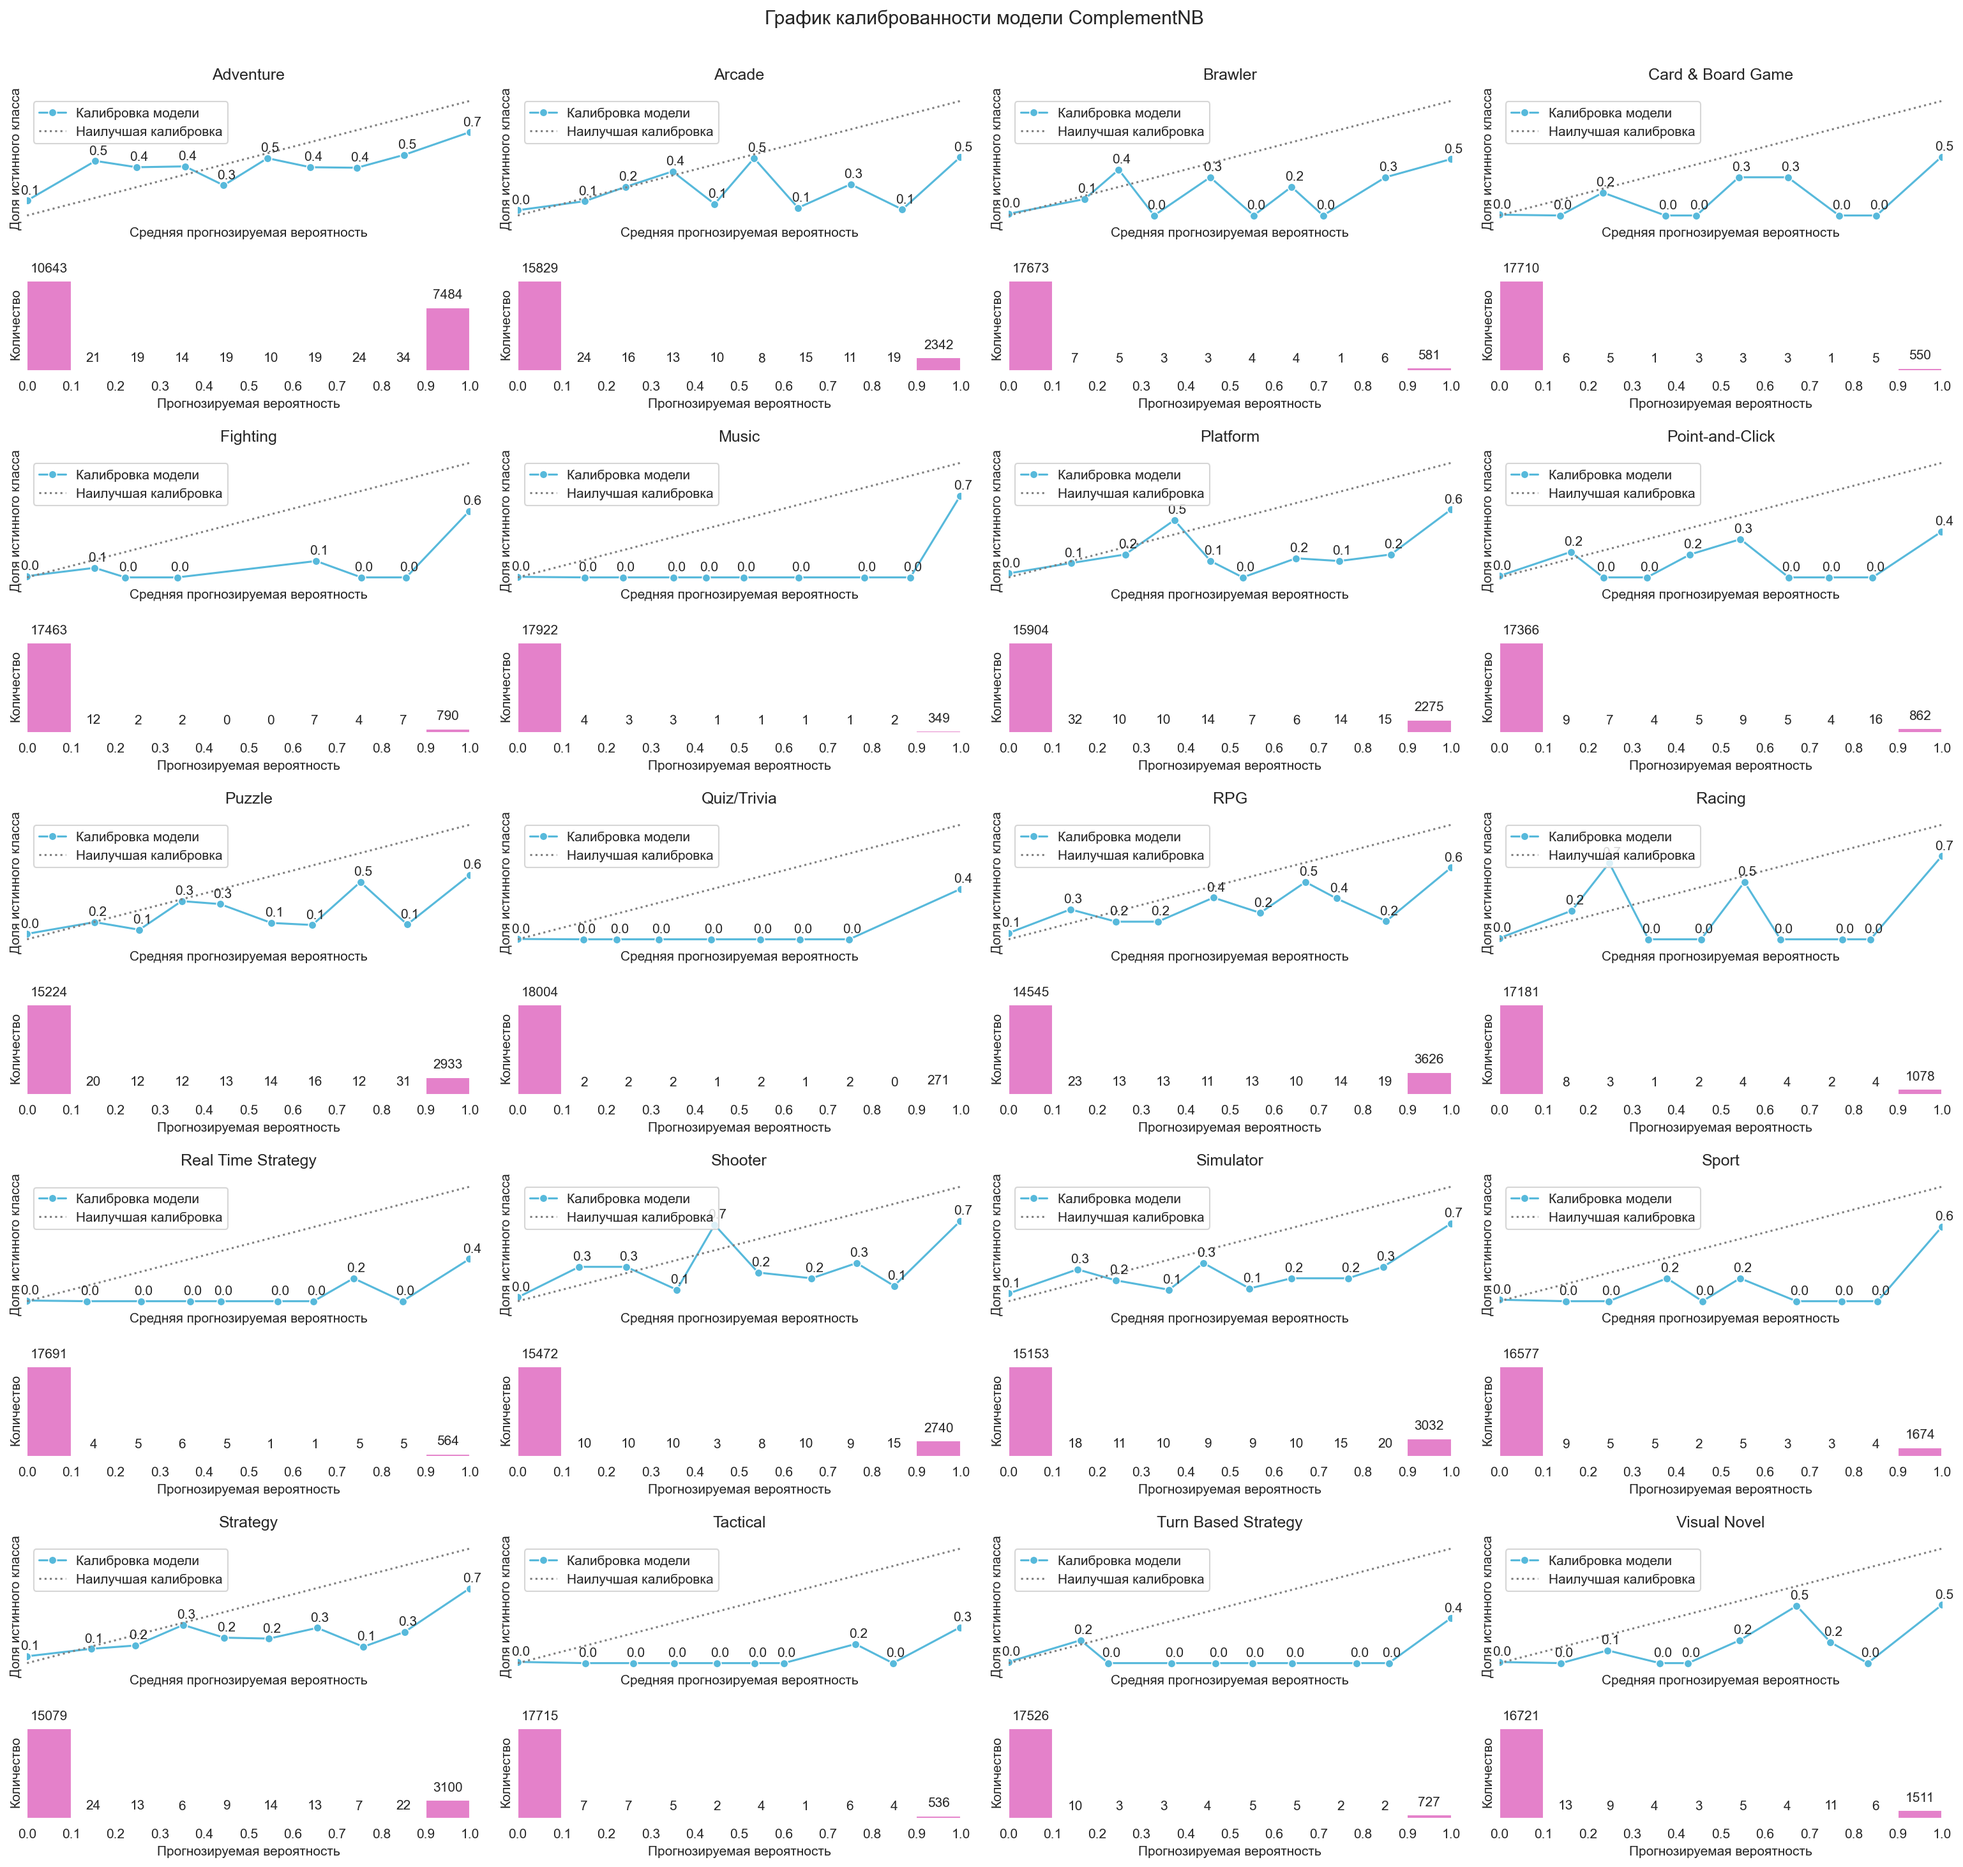
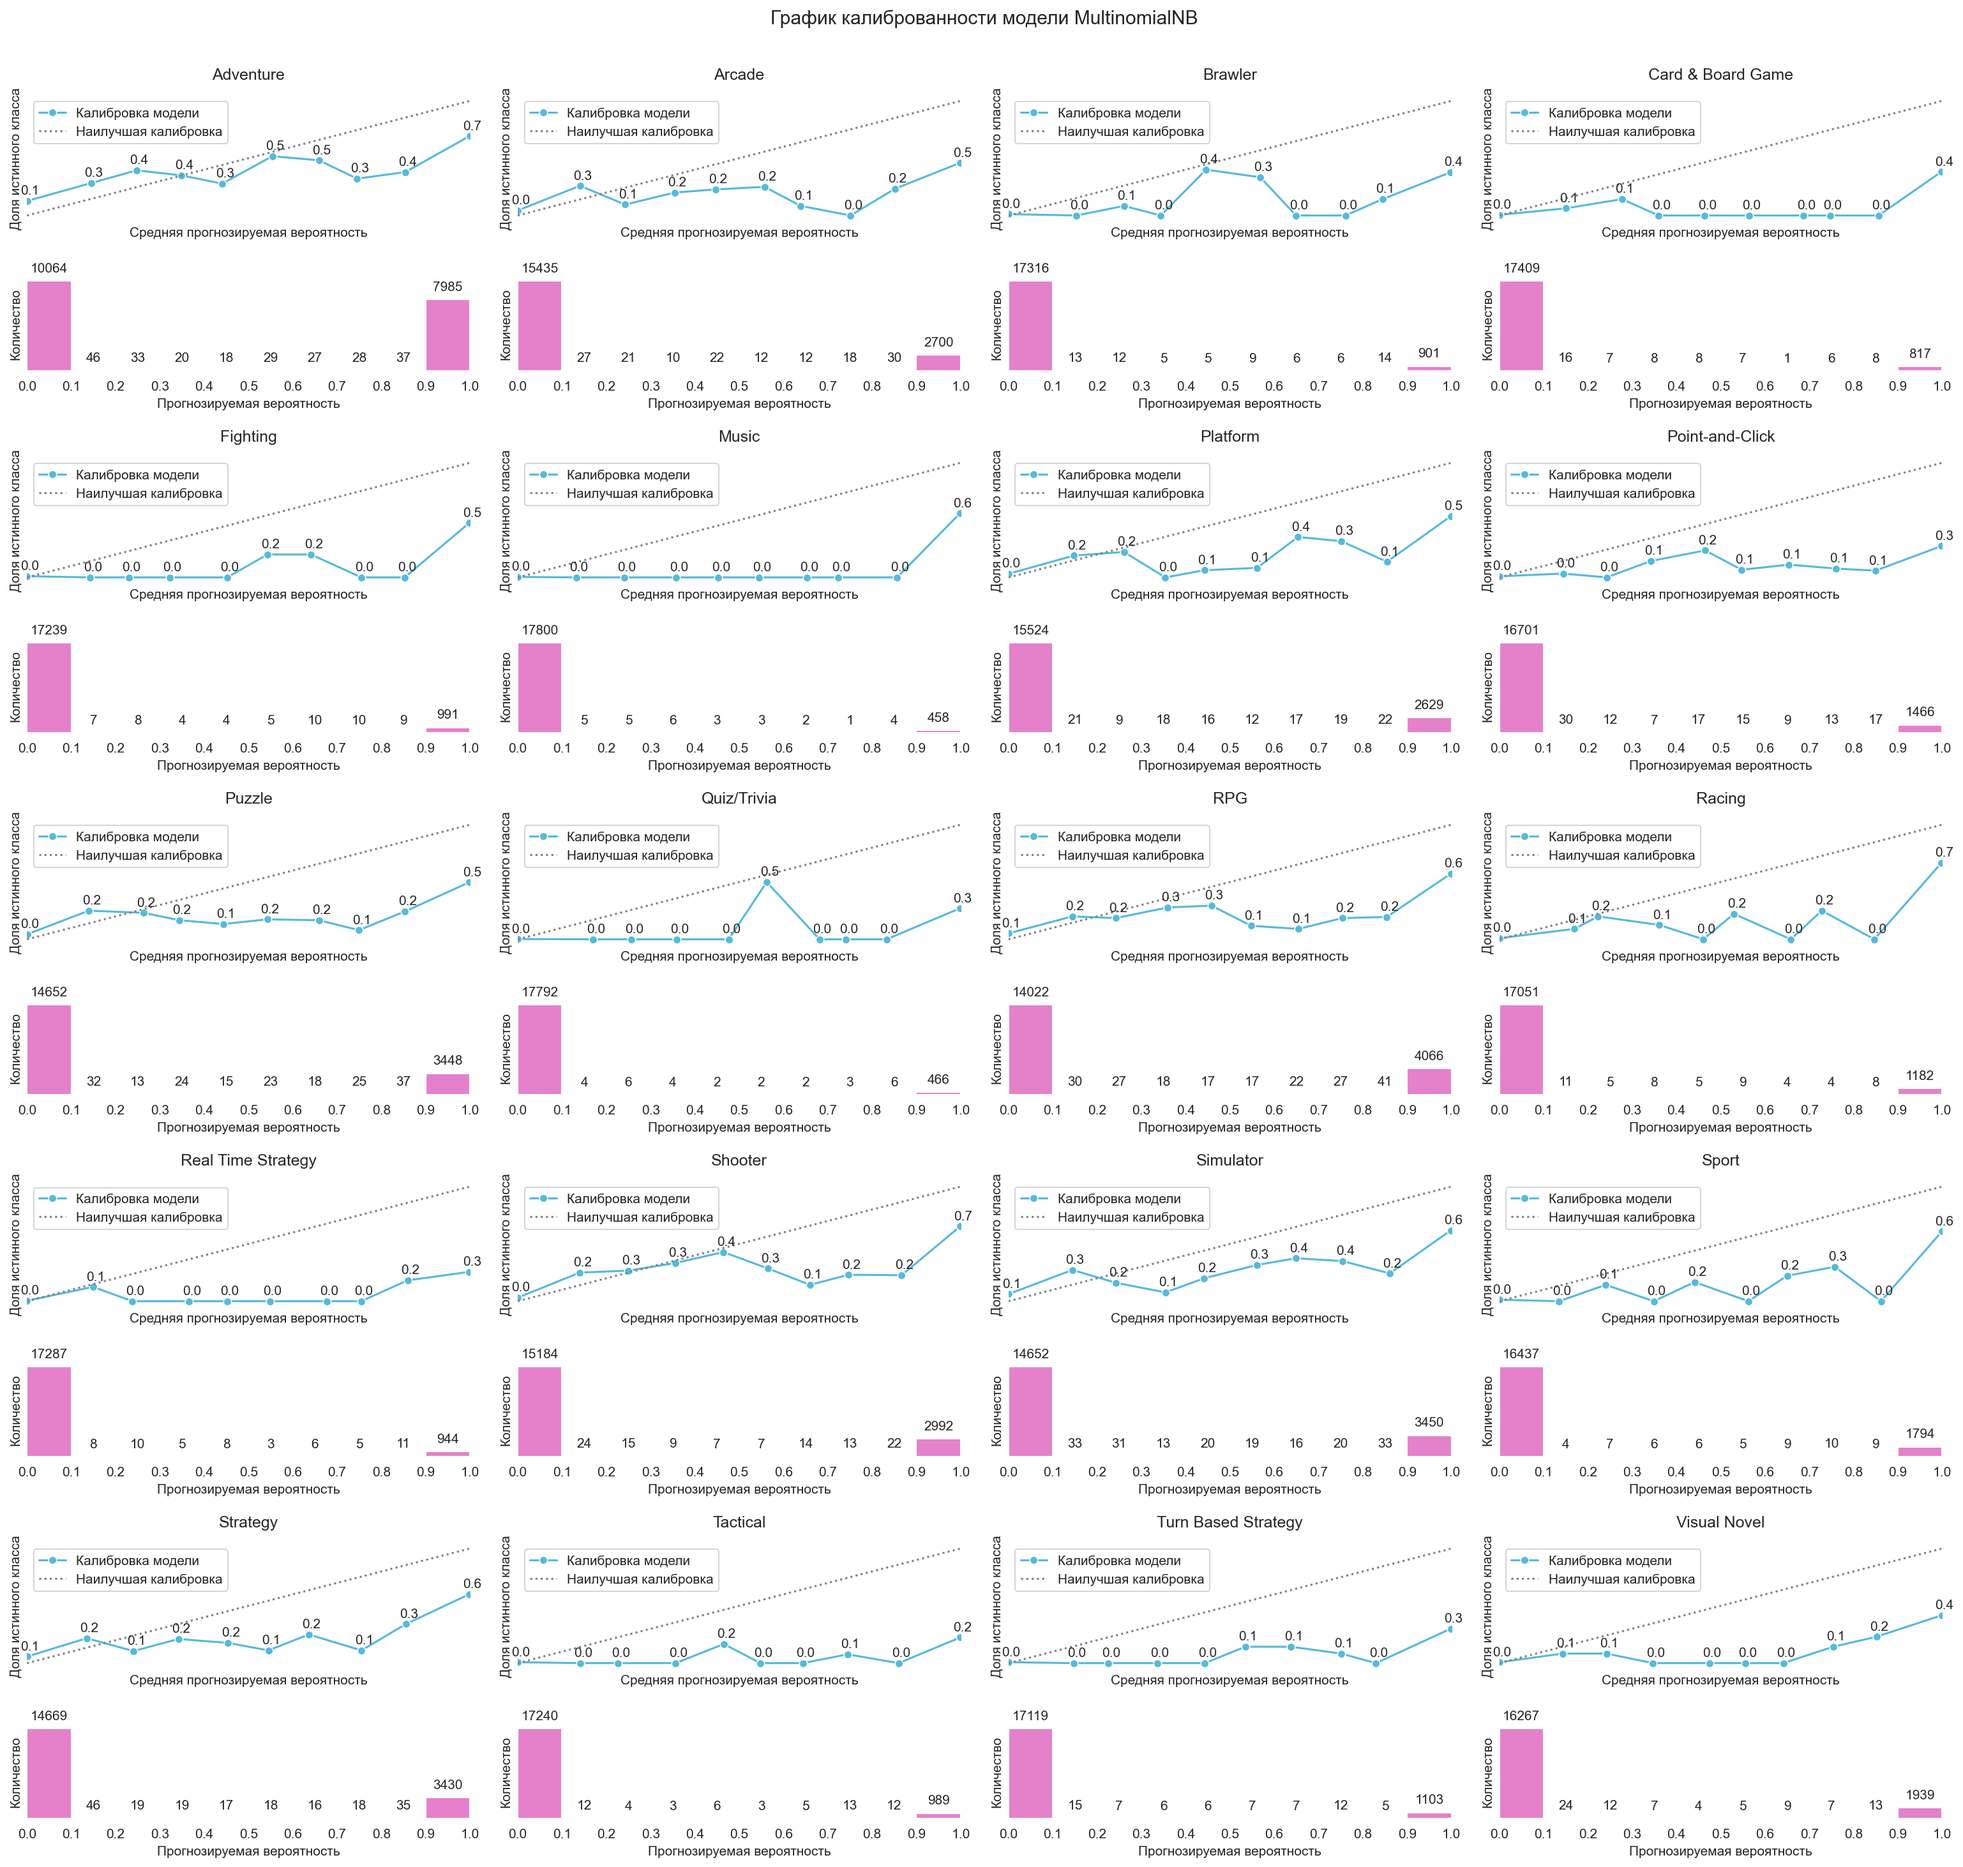
Update model hyperparameters
Retrain models on new hyperparameters. Update results report

diff --git a/src/ml/models/complement.py b/src/ml/models/complement.py
@@ -39,9 +39,9 @@ pipeline = Pipeline(
 params = {
     'standardizer__vectorizer__norm': ['categorical', [None, 'l1', 'l2']],
     'standardizer__vectorizer__sublinear_tf': ['categorical', [True, False]],
-    'standardizer__vectorizer__max_features': ['int', {'low': 200_000,
-                                                       'high': 1_500_000,
-                                                       'step': 100_000}],
+    'standardizer__vectorizer__max_features': ['int', {'low': 50_000,
+                                                       'high': 250_000,
+                                                       'step': 50_000}],
     'standardizer__vectorizer__min_df': ['int', {'low': 2,
                                                  'high': 20,
                                                  'step': 2}],

diff --git a/src/ml/models/multinomial.py b/src/ml/models/multinomial.py
@@ -39,9 +39,9 @@ pipeline = Pipeline(
 params = {
     'standardizer__vectorizer__norm': ['categorical', [None, 'l1', 'l2']],
     'standardizer__vectorizer__sublinear_tf': ['categorical', [True, False]],
-    'standardizer__vectorizer__max_features': ['int', {'low': 200_000,
-                                                       'high': 1_500_000,
-                                                       'step': 100_000}],
+    'standardizer__vectorizer__max_features': ['int', {'low': 50_000,
+                                                       'high': 250_000,
+                                                       'step': 50_000}],
     'standardizer__vectorizer__min_df': ['int', {'low': 2,
                                                  'high': 20,
                                                  'step': 2}],

diff --git a/src/ml/models/sgd.py b/src/ml/models/sgd.py
@@ -43,9 +43,9 @@ pipeline = Pipeline(
 params = {
     'standardizer__vectorizer__norm': ['categorical', [None, 'l1', 'l2']],
     'standardizer__vectorizer__sublinear_tf': ['categorical', [True, False]],
-    'standardizer__vectorizer__max_features': ['int', {'low': 200_000,
-                                                       'high': 1_500_000,
-                                                       'step': 100_000}],
+    'standardizer__vectorizer__max_features': ['int', {'low': 50_000,
+                                                       'high': 250_000,
+                                                       'step': 50_000}],
     'standardizer__vectorizer__min_df': ['int', {'low': 2,
                                                  'high': 20,
                                                  'step': 2}],

diff --git a/src/ml/training.py b/src/ml/training.py
@@ -166,7 +166,7 @@ def train(models: dict[str: Model],
         (train_sizes,
          train_scores, test_scores,
          fit_times, score_times) = learning_curve(
-            estimator=model,
+            estimator=model.pipeline,
             X=x_train,
             y=y_train,
             train_sizes=LEARNING_CURVE_TRAIN_SIZES,

diff --git a/src/training.py b/src/training.py
@@ -49,7 +49,7 @@ def main():
         train(
             models=models,
             data=data,
-            n_trials=250
+            n_trials=300
         )
 
 

diff --git a/README.md b/README.md
@@ -132,8 +132,8 @@
 
 ![words](resources/training/words.png)
 
-Наилучшей предсказательной способностью обладает модель **ComplementNB**. 
-На тестовых данных удалось достичь метрики **F1-weighted** более **0.67**
+Наилучшей предсказательной способностью обладает модель **MultinomialNB**. 
+На тестовых данных удалось достичь метрики **F1-weighted** более **0.64**
 
 ![words](resources/training/metrics.png)
 
